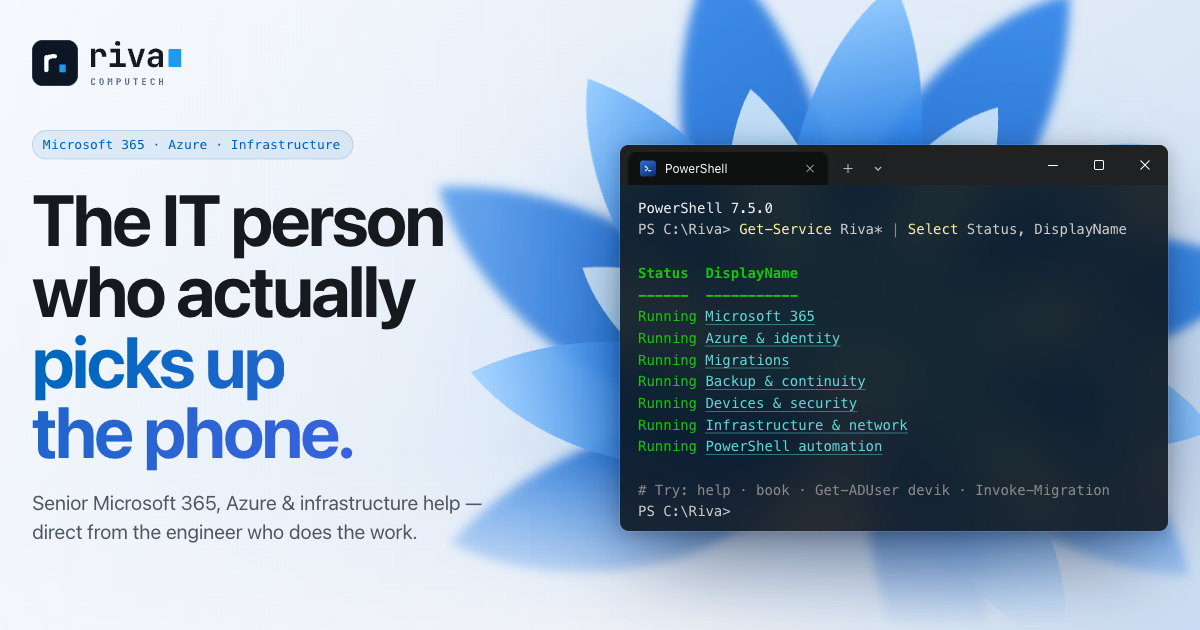
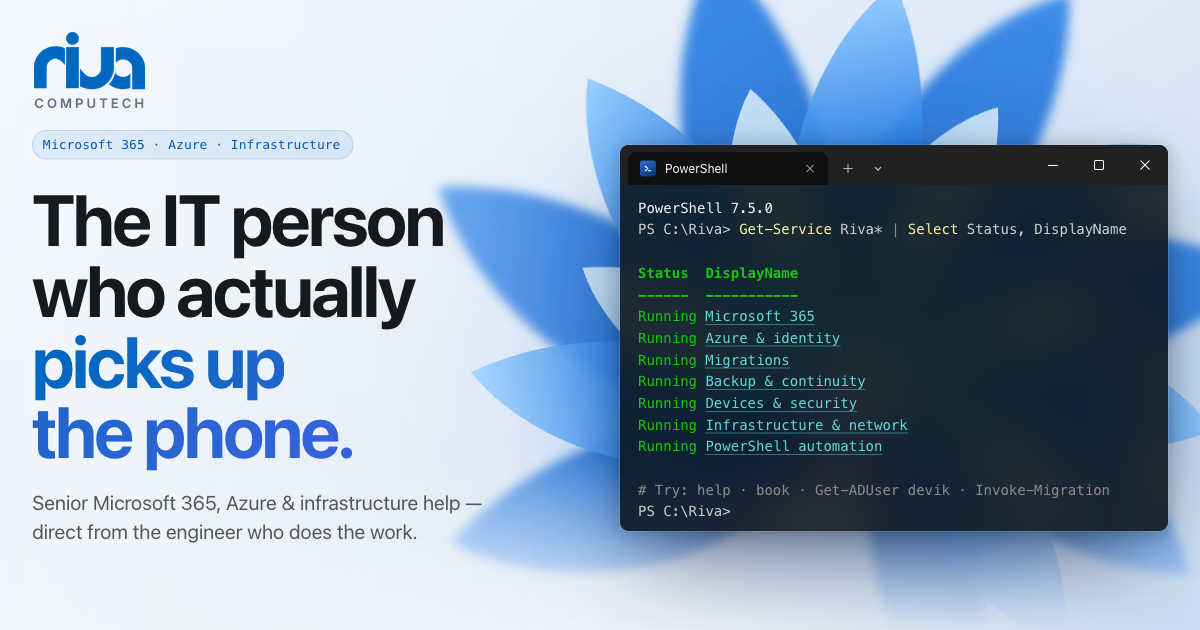
Add files via upload

Changed region(s): [[0.0, 0.0603, 0.1542, 0.181]]

diff --git a/index.html b/index.html
@@ -24,8 +24,8 @@
 <meta property="og:image" content="https://rivacomputech.com/og.png" />
 <meta name="twitter:card" content="summary_large_image" />
 
-<link rel="icon" href="favicon.svg" type="image/svg+xml" />
-<link rel="apple-touch-icon" href="apple-touch-icon.png" />
+<link rel="icon" href="favicon.svg?v=2" type="image/svg+xml" />
+<link rel="apple-touch-icon" href="apple-touch-icon.png?v=2" />
 
 <!-- Theme + motion are decided before first paint so there's no flash. -->
 <script>
@@ -309,6 +309,7 @@ textarea.field{resize:vertical;min-height:150px;line-height:1.55}
 .brand{display:inline-flex;align-items:center;gap:13px;color:var(--text);text-decoration:none;line-height:1}
 .brand .bmark{width:46px;height:46px;flex:none}
 .brand .bword{height:44px;width:auto}
+.brand .blogo{height:72px;width:auto}
 .hero-brand{--blink:curblink}
 @keyframes curblink{50%{opacity:0}}
 .status{display:inline-flex;align-items:center;gap:9px;padding:7px 14px 7px 12px;border-radius:999px;background:var(--surface);border:1px solid var(--stroke);
@@ -578,6 +579,7 @@ textarea.field{resize:vertical;min-height:150px;line-height:1.55}
 .foot-grid{display:grid;grid-template-columns:1.4fr 1fr 1fr;gap:40px}
 .foot .brand .bmark{width:38px;height:38px}
 .foot .brand .bword{height:36px}
+.foot .brand .blogo{height:60px}
 .foot p{margin:16px 0 0;max-width:34ch;color:var(--text-2);font-size:14.5px}
 .foot h4{font:600 12px/1 var(--font);text-transform:uppercase;letter-spacing:.08em;color:var(--text-3);margin-bottom:14px}
 .foot ul{list-style:none;margin:0;padding:0;display:grid;gap:8px}
@@ -943,7 +945,7 @@ textarea.field{resize:vertical;min-height:150px;line-height:1.55}
   <svg class="wall" aria-hidden="true" focusable="false"><use href="#wall" width="100%" height="100%"/></svg>
   <header class="wrap hero-top">
     <a class="brand hero-brand boot-in" href="#home" aria-label="riva computech — home">
-      <svg class="bmark" viewBox="0 0 64 64" aria-hidden="true"><use href="#rivaMarkG"/></svg><svg class="bword" viewBox="6.2 -51.88 180.24 87.56" aria-hidden="true"><use href="#rivaWordG"/></svg>
+      <img class="blogo" src="logo.svg?v=2" alt="" />
     </a>
     <span class="status boot-in" style="--d:80"><span class="dot"></span><span>Open to <span class="long">select </span>projects</span></span>
   </header>
@@ -1350,7 +1352,7 @@ Write-Host "✔ $User offboarded." -ForegroundColor Green</code></pre>
     <div class="foot-grid">
       <div>
         <a class="brand" href="#home" aria-label="Riva Computech — back to top">
-          <svg class="bmark" viewBox="0 0 64 64" aria-hidden="true"><use href="#rivaMarkG"/></svg><svg class="bword" viewBox="6.2 -51.88 180.24 87.56" aria-hidden="true"><use href="#rivaWordG"/></svg>
+          <img class="blogo" src="logo.svg?v=2" alt="" />
         </a>
         <p>Senior Microsoft 365, Azure &amp; infrastructure help — direct from the engineer doing the work.</p>
       </div>
@@ -1375,7 +1377,7 @@ Write-Host "✔ $User offboarded." -ForegroundColor Green</code></pre>
   <div class="tb-left"><span class="tb-status"><span class="dot"></span>Open to select projects</span></div>
   <div class="tb-mid">
     <button class="tb-btn tb-start" id="start-btn" type="button" data-fly="start" aria-label="Start" aria-haspopup="dialog" aria-expanded="false" data-tip="Start">
-      <svg class="bmark" viewBox="0 0 64 64" aria-hidden="true"><use href="#rivaMarkG"/></svg>
+      <img class="bmark" src="favicon.svg?v=2" alt="" />
     </button>
     <button class="tb-btn tb-search" id="search-btn" type="button" data-fly="start" aria-label="Search" data-tip="Search"><svg class="i"><use href="#i-search"/></svg></button>
     <a class="tb-btn tb-app" href="#home" data-sec="home" id="tb-term" aria-label="Terminal" data-tip="Terminal"><span class="app-ico ai-term"><svg class="i"><use href="#i-terminal"/></svg></span></a>
@@ -1464,7 +1466,7 @@ Write-Host "✔ $User offboarded." -ForegroundColor Green</code></pre>
   <svg class="wall" aria-hidden="true" focusable="false"><use href="#wall" width="100%" height="100%"/></svg>
   <div class="lock-time" id="lock-time">12:00</div>
   <div class="lock-date" id="lock-date"></div>
-  <div class="lock-card"><svg class="bmark" viewBox="0 0 64 64" aria-hidden="true"><use href="#rivaMarkG"/></svg><span><b>Senior Microsoft 365, Azure &amp; infrastructure help</b><small>Still available — evenings, weekends &amp; holidays.</small></span></div>
+  <div class="lock-card"><img class="bmark" src="favicon.svg?v=2" alt="" /><span><b>Senior Microsoft 365, Azure &amp; infrastructure help</b><small>Still available — evenings, weekends &amp; holidays.</small></span></div>
   <div class="lock-hint">Click or press any key to unlock</div>
 </div>
 <div class="restart" id="restart" hidden><div class="spin" aria-hidden="true"><i></i><i></i><i></i><i></i><i></i></div><span>Restarting</span></div>
@@ -1491,7 +1493,7 @@ function go(target){var el=typeof target==="string"?$(target):target; if(el) el.
 function store(k,v){try{localStorage.setItem(k,v)}catch(e){}}
 function stored(k){try{return localStorage.getItem(k)}catch(e){return null}}
 var EMAIL="rivacomputech@gmail.com";
-var LOGO='<svg class="bmark" viewBox="0 0 64 64" aria-hidden="true"><use href="#rivaMarkG"/></svg>';
+var LOGO='<img class="bmark" src="favicon.svg?v=2" alt="" />';
 $("#year").textContent=new Date().getFullYear();
 
 /* ───────── toasts ───────── */
